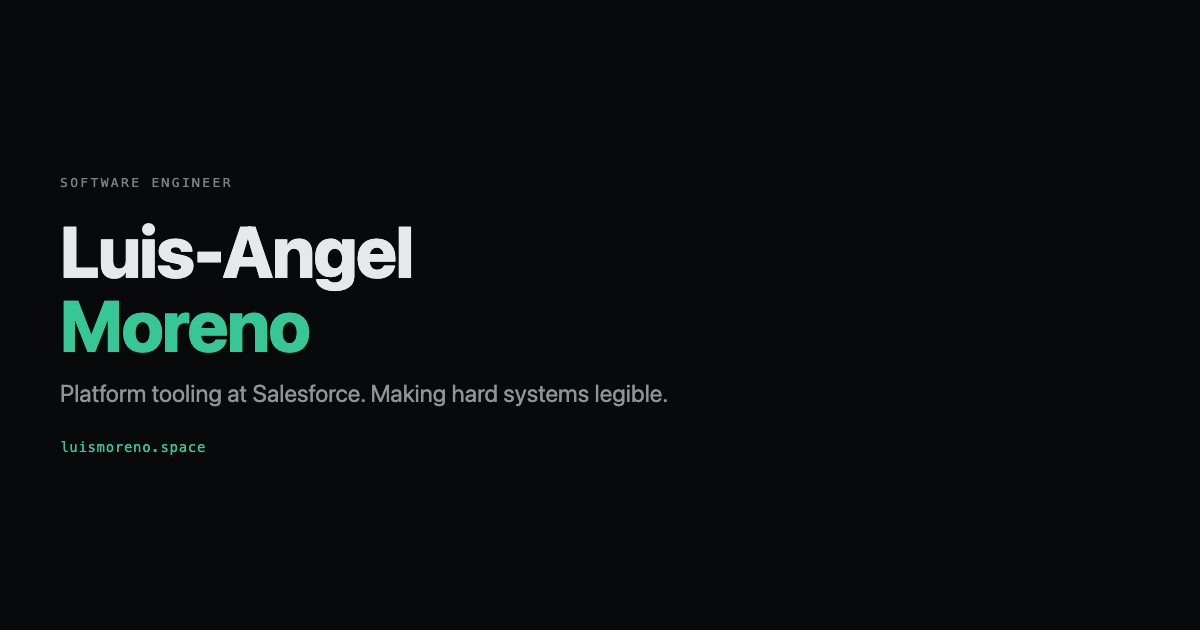
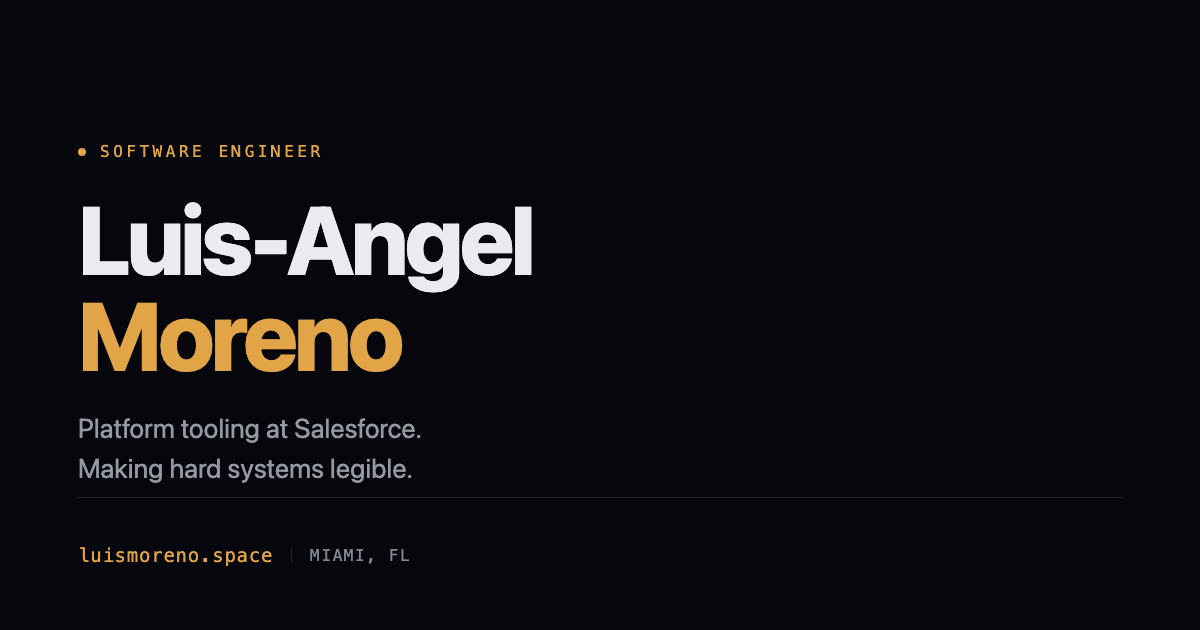
Recolour to Ink & Ochre
Replaces the emerald-on-near-black palette, which had become the
default AI-lab look, with a blue-undertone near-black carrying a
single warm ochre accent (hue 75). The light theme is the same idea
inverted: cool paper with the accent dropped to a deep bronze so it
still clears AA on a pale ground.

Both modes are contrast-verified against --bg and --surface-2, the
tightest pairing. Weakest text pair is --faint at 5.13:1, over the
4.5:1 AA floor.

Only tokens changed — no component or layout edits. The hero
constellation already resolves --accent at runtime and re-reads it on
theme change, so it follows automatically. Regenerates og-image.png
and apple-touch-icon.png, which had the old accent baked in, and
syncs the two hardcoded theme-color values to the new backgrounds.

Changed region(s): [[0.0308, 0.2111, 0.555, 0.7841], [0.0617, 0.8746, 0.3392, 0.9048]]

diff --git a/src/index.css b/src/index.css
@@ -11,68 +11,72 @@
 }
 
 /* ── Design tokens ──────────────────────────────────────────────────────
-   AI-lab / technical: near-black default (Conifer / Experiential), a warm
-   greige light theme (Edviro) on the toggle, monospace chrome, one committed
-   green accent. Theme is selected via [data-theme] on <html>, set by an
-   inline script in index.html before first paint (see App.jsx for the
-   runtime toggle). */
+   Ink & Ochre. A blue-undertone near-black carries the neutrals; a single
+   warm ochre accent (hue 75) plays against that cold ground. The light
+   theme is the same idea inverted — cool paper, and the accent drops to a
+   deep bronze so it still clears AA on a pale background. Both modes are
+   contrast-verified against --bg AND --surface-2 (the tightest pairing):
+   the weakest text pair is --faint at 5.13:1, comfortably over the 4.5:1
+   AA floor. If you retune a neutral, re-check it against --surface-2.
+   Theme is selected via [data-theme] on <html>, set by an inline script in
+   index.html before first paint (see App.jsx for the runtime toggle). */
 :root,
 :root[data-theme="light"] {
-  --bg: oklch(94.5% 0.006 95);
-  --surface: oklch(98.5% 0.004 95);
-  --surface-2: oklch(91% 0.006 92);
-  --text: oklch(20% 0.008 250);
-  --muted: oklch(43% 0.008 250);
-  --faint: oklch(49% 0.008 250);
-  --line: oklch(85% 0.006 92);
-  --line-bright: oklch(99% 0.003 95);
-  --accent: oklch(42% 0.09 160);
-  --accent-ink: oklch(97% 0.02 160);
-  --accent-line: oklch(42% 0.09 160 / 0.32);
+  --bg: oklch(96% 0.004 265);
+  --surface: oklch(99% 0.002 265);
+  --surface-2: oklch(93% 0.005 265);
+  --text: oklch(19% 0.012 265);
+  --muted: oklch(43% 0.012 265);
+  --faint: oklch(49% 0.014 265);
+  --line: oklch(87% 0.006 265);
+  --line-bright: oklch(99.5% 0.002 265);
+  --accent: oklch(48% 0.11 70);
+  --accent-ink: oklch(98% 0.015 75);
+  --accent-line: oklch(48% 0.11 70 / 0.32);
 
   /* Liquid-glass material (light). On paper a white rim is invisible, so the
      border does the containing and the specular line does the lighting —
      inverted from the dark theme, where the rim itself is the highlight. */
-  --g-tint: oklch(99% 0.003 95 / 0.55);
-  --g-rim: oklch(62% 0.006 92 / 0.16);
+  --g-tint: oklch(99% 0.002 265 / 0.55);
+  --g-rim: oklch(62% 0.006 265 / 0.16);
   --g-spec: oklch(100% 0 0 / 0.5);
-  --g-under: oklch(20% 0.008 250 / 0.045);
+  --g-under: oklch(19% 0.012 265 / 0.045);
   --g-band: oklch(100% 0 0 / 0.62);
-  --g-cast: oklch(20% 0.008 250 / 0.14);
+  --g-cast: oklch(19% 0.012 265 / 0.14);
   /* Soft enough to read as a shaped object, tight enough that the corners
      don't compete with the registration marks and hairline frames. */
   --r-glass: 6px;
-  --glass-hi: oklch(24% 0.008 250 / 0.96);
-  --glass-mid: oklch(34% 0.008 250 / 0.8);
-  --glass-sheen: oklch(58% 0.008 250 / 0.92);
+  --glass-hi: oklch(24% 0.012 265 / 0.96);
+  --glass-mid: oklch(34% 0.012 265 / 0.8);
+  --glass-sheen: oklch(58% 0.012 265 / 0.92);
   --glass-edge: rgb(255 255 255 / 0.5);
-  --glass-shadow: oklch(20% 0.008 250 / 0.16);
+  --glass-shadow: oklch(19% 0.012 265 / 0.16);
 
   --bg-color: var(--bg);
   --text-color: var(--text);
 }
 
 :root[data-theme="dark"] {
-  --bg: oklch(14% 0.003 250);
-  --surface: oklch(17% 0.004 250);
-  --surface-2: oklch(20% 0.005 250);
-  --text: oklch(93% 0.004 250);
-  --muted: oklch(66% 0.006 250);
-  --faint: oklch(60% 0.008 250);
-  --line: oklch(26% 0.005 250);
-  --line-bright: oklch(33% 0.005 250);
-  --accent: oklch(74% 0.14 165);
-  --accent-ink: oklch(16% 0.03 165);
-  --accent-line: oklch(74% 0.14 165 / 0.3);
-  --glass-hi: oklch(93% 0.004 250 / 0.92);
-  --glass-mid: oklch(93% 0.004 250 / 0.45);
+  --bg: oklch(13% 0.012 265);
+  --surface: oklch(17% 0.014 265);
+  --surface-2: oklch(21% 0.015 265);
+  --text: oklch(94% 0.006 265);
+  --muted: oklch(68% 0.012 265);
+  --faint: oklch(62% 0.014 265);
+  --line: oklch(27% 0.014 265);
+  --line-bright: oklch(34% 0.014 265);
+  --accent: oklch(76% 0.13 75);
+  --accent-ink: oklch(17% 0.035 75);
+  --accent-line: oklch(76% 0.13 75 / 0.3);
+  --glass-hi: oklch(94% 0.006 265 / 0.92);
+  --glass-mid: oklch(94% 0.006 265 / 0.45);
   --glass-sheen: oklch(99% 0 0 / 0.95);
   --glass-edge: rgb(255 255 255 / 0.14);
   --glass-shadow: rgb(0 0 0 / 0.4);
   /* Liquid-glass material (dark). Here the rim itself carries the light, so
      it is a bright white hairline rather than the containing edge it plays on
      paper, and the underside darkens to sell the thickness. */
-  --g-tint: oklch(30% 0.006 250 / 0.4);
+  --g-tint: oklch(30% 0.014 265 / 0.4);
   --g-rim: oklch(100% 0 0 / 0.09);
   --g-spec: oklch(100% 0 0 / 0.13);
   --g-under: oklch(0% 0 0 / 0.22);

diff --git a/index.html b/index.html
@@ -5,7 +5,7 @@
     <link rel="icon" type="image/png" href="./src/assets/favi.png" />
     <link rel="apple-touch-icon" href="/apple-touch-icon.png" />
     <meta name="viewport" content="width=device-width, initial-scale=1.0" />
-    <meta name="theme-color" content="#131315" />
+    <meta name="theme-color" content="#05070c" />
 
     <!-- Resolves the theme before first paint so there is no flash of the
          wrong palette. Must stay after the theme-color meta it updates and
@@ -25,7 +25,7 @@
           }
           document.documentElement.dataset.theme = theme;
           var meta = document.querySelector('meta[name="theme-color"]');
-          if (meta) meta.setAttribute("content", theme === "dark" ? "#131315" : "#eeece4");
+          if (meta) meta.setAttribute("content", theme === "dark" ? "#05070c" : "#f0f2f4");
         } catch (e) {}
       })();
     </script>

diff --git a/src/App.jsx b/src/App.jsx
@@ -211,7 +211,8 @@ export default function App() {
   useEffect(() => {
     document.documentElement.dataset.theme = isDark ? "dark" : "light";
     const themeMeta = document.querySelector('meta[name="theme-color"]');
-    if (themeMeta) themeMeta.setAttribute("content", isDark ? "#131315" : "#eeece4");
+    // Keep in sync with --bg in index.css and the pre-paint script in index.html.
+    if (themeMeta) themeMeta.setAttribute("content", isDark ? "#05070c" : "#f0f2f4");
     localStorage.setItem("theme", isDark ? "dark" : "light");
   }, [isDark]);
 
